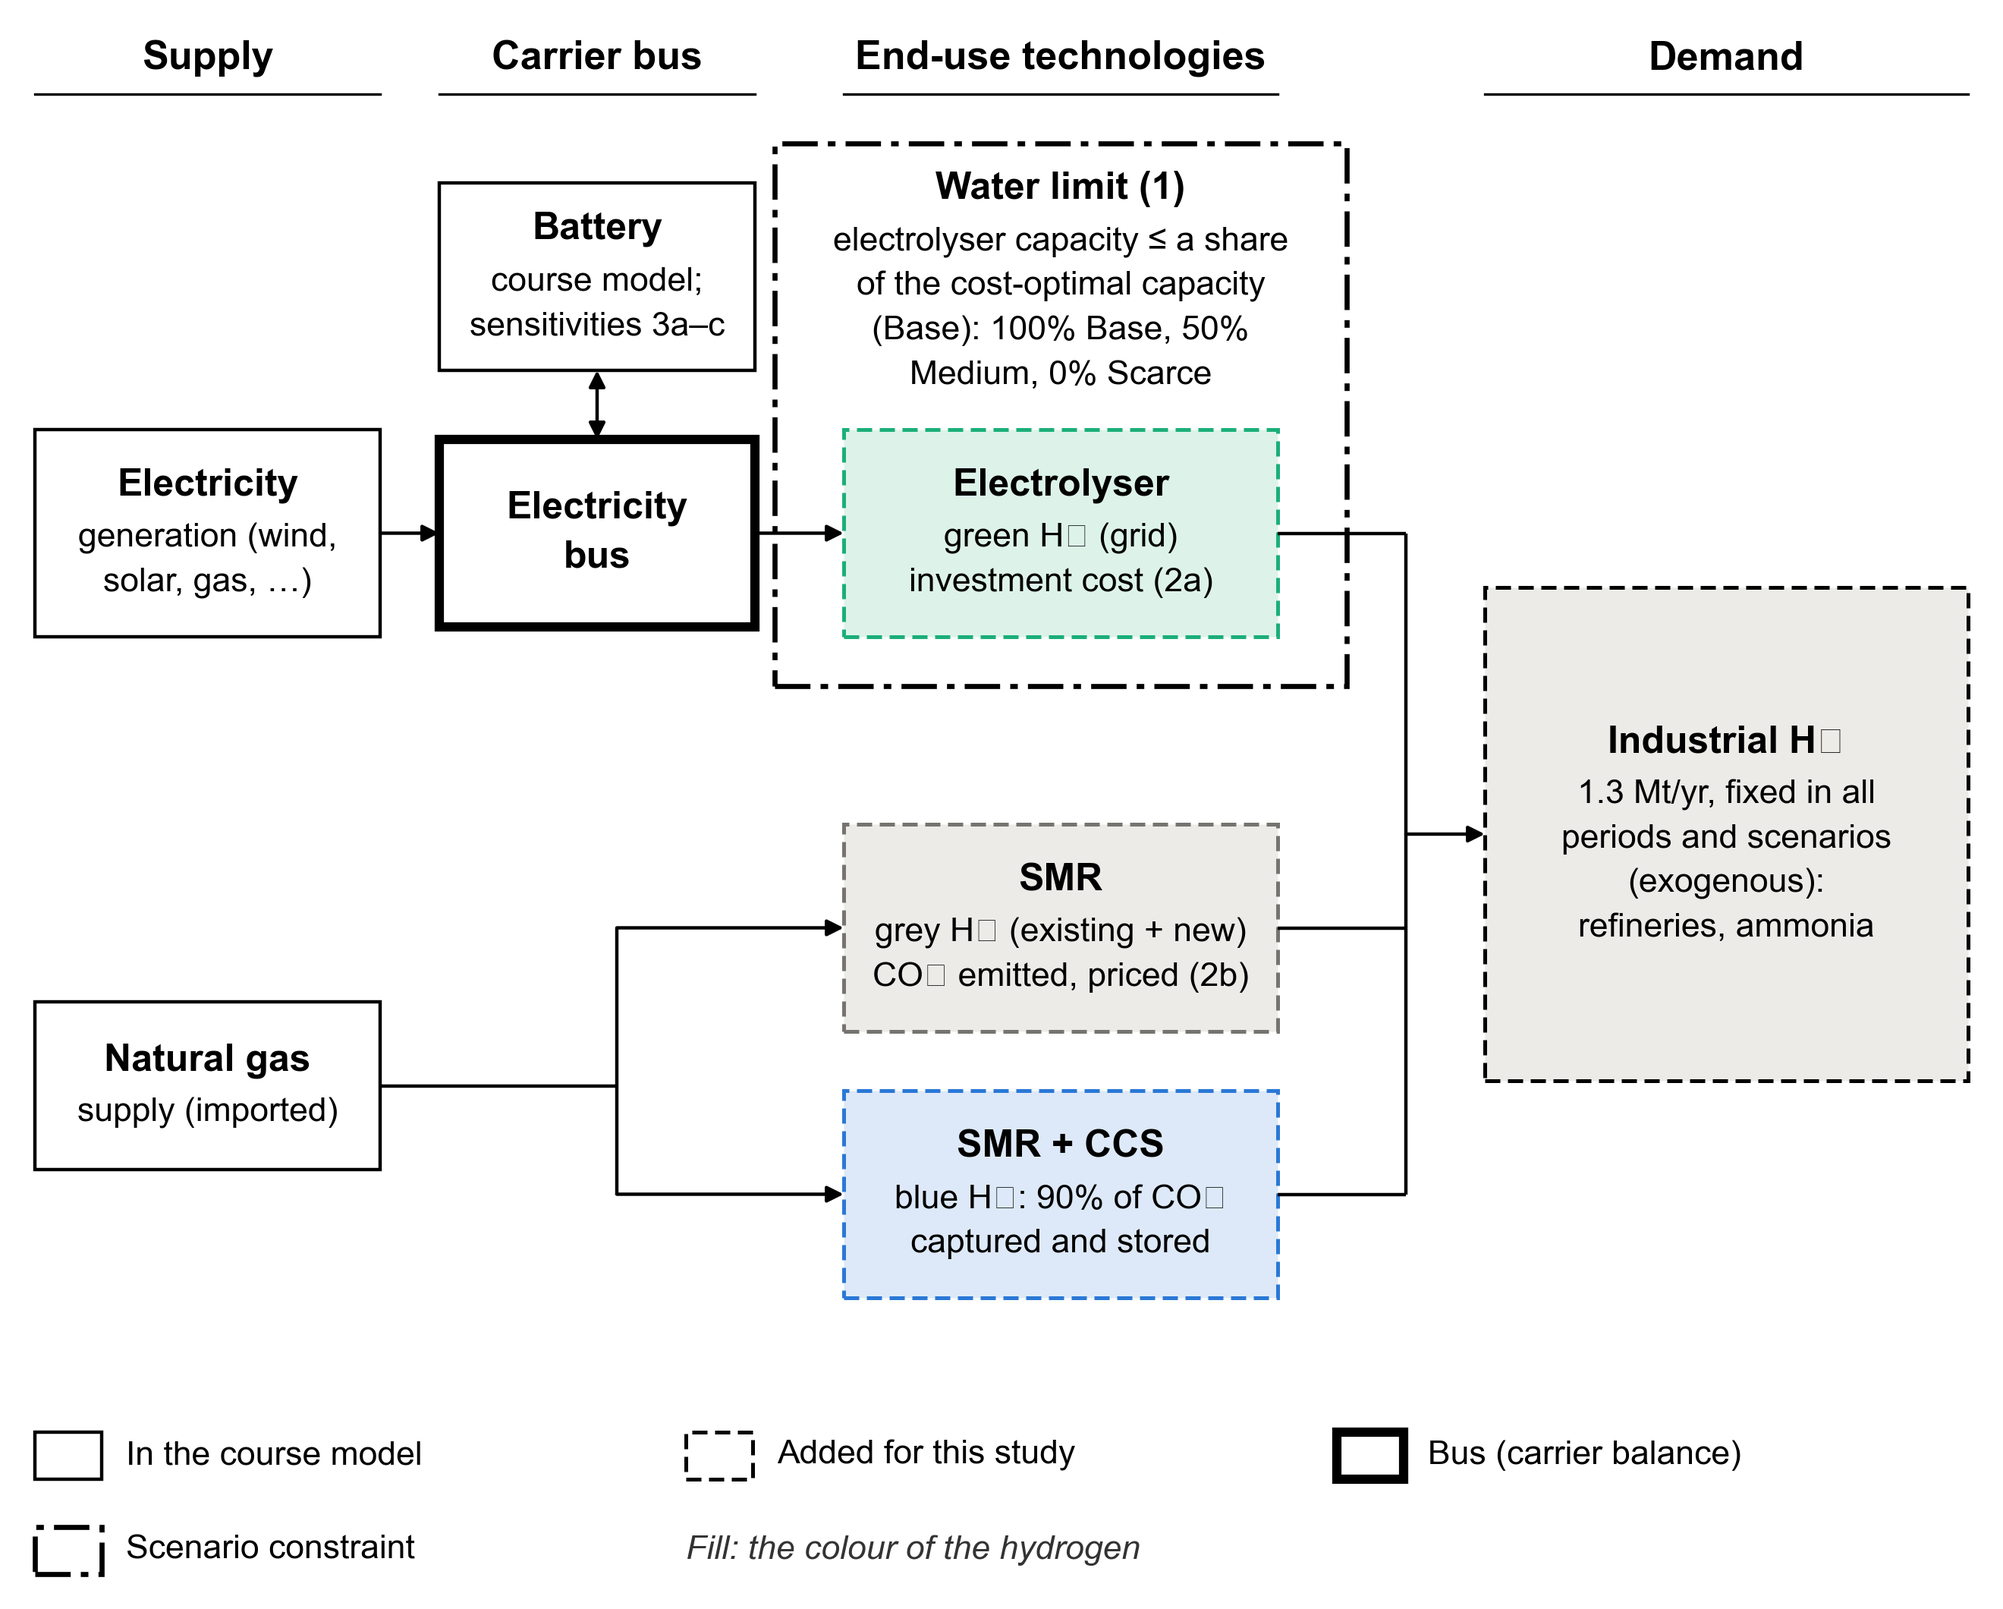
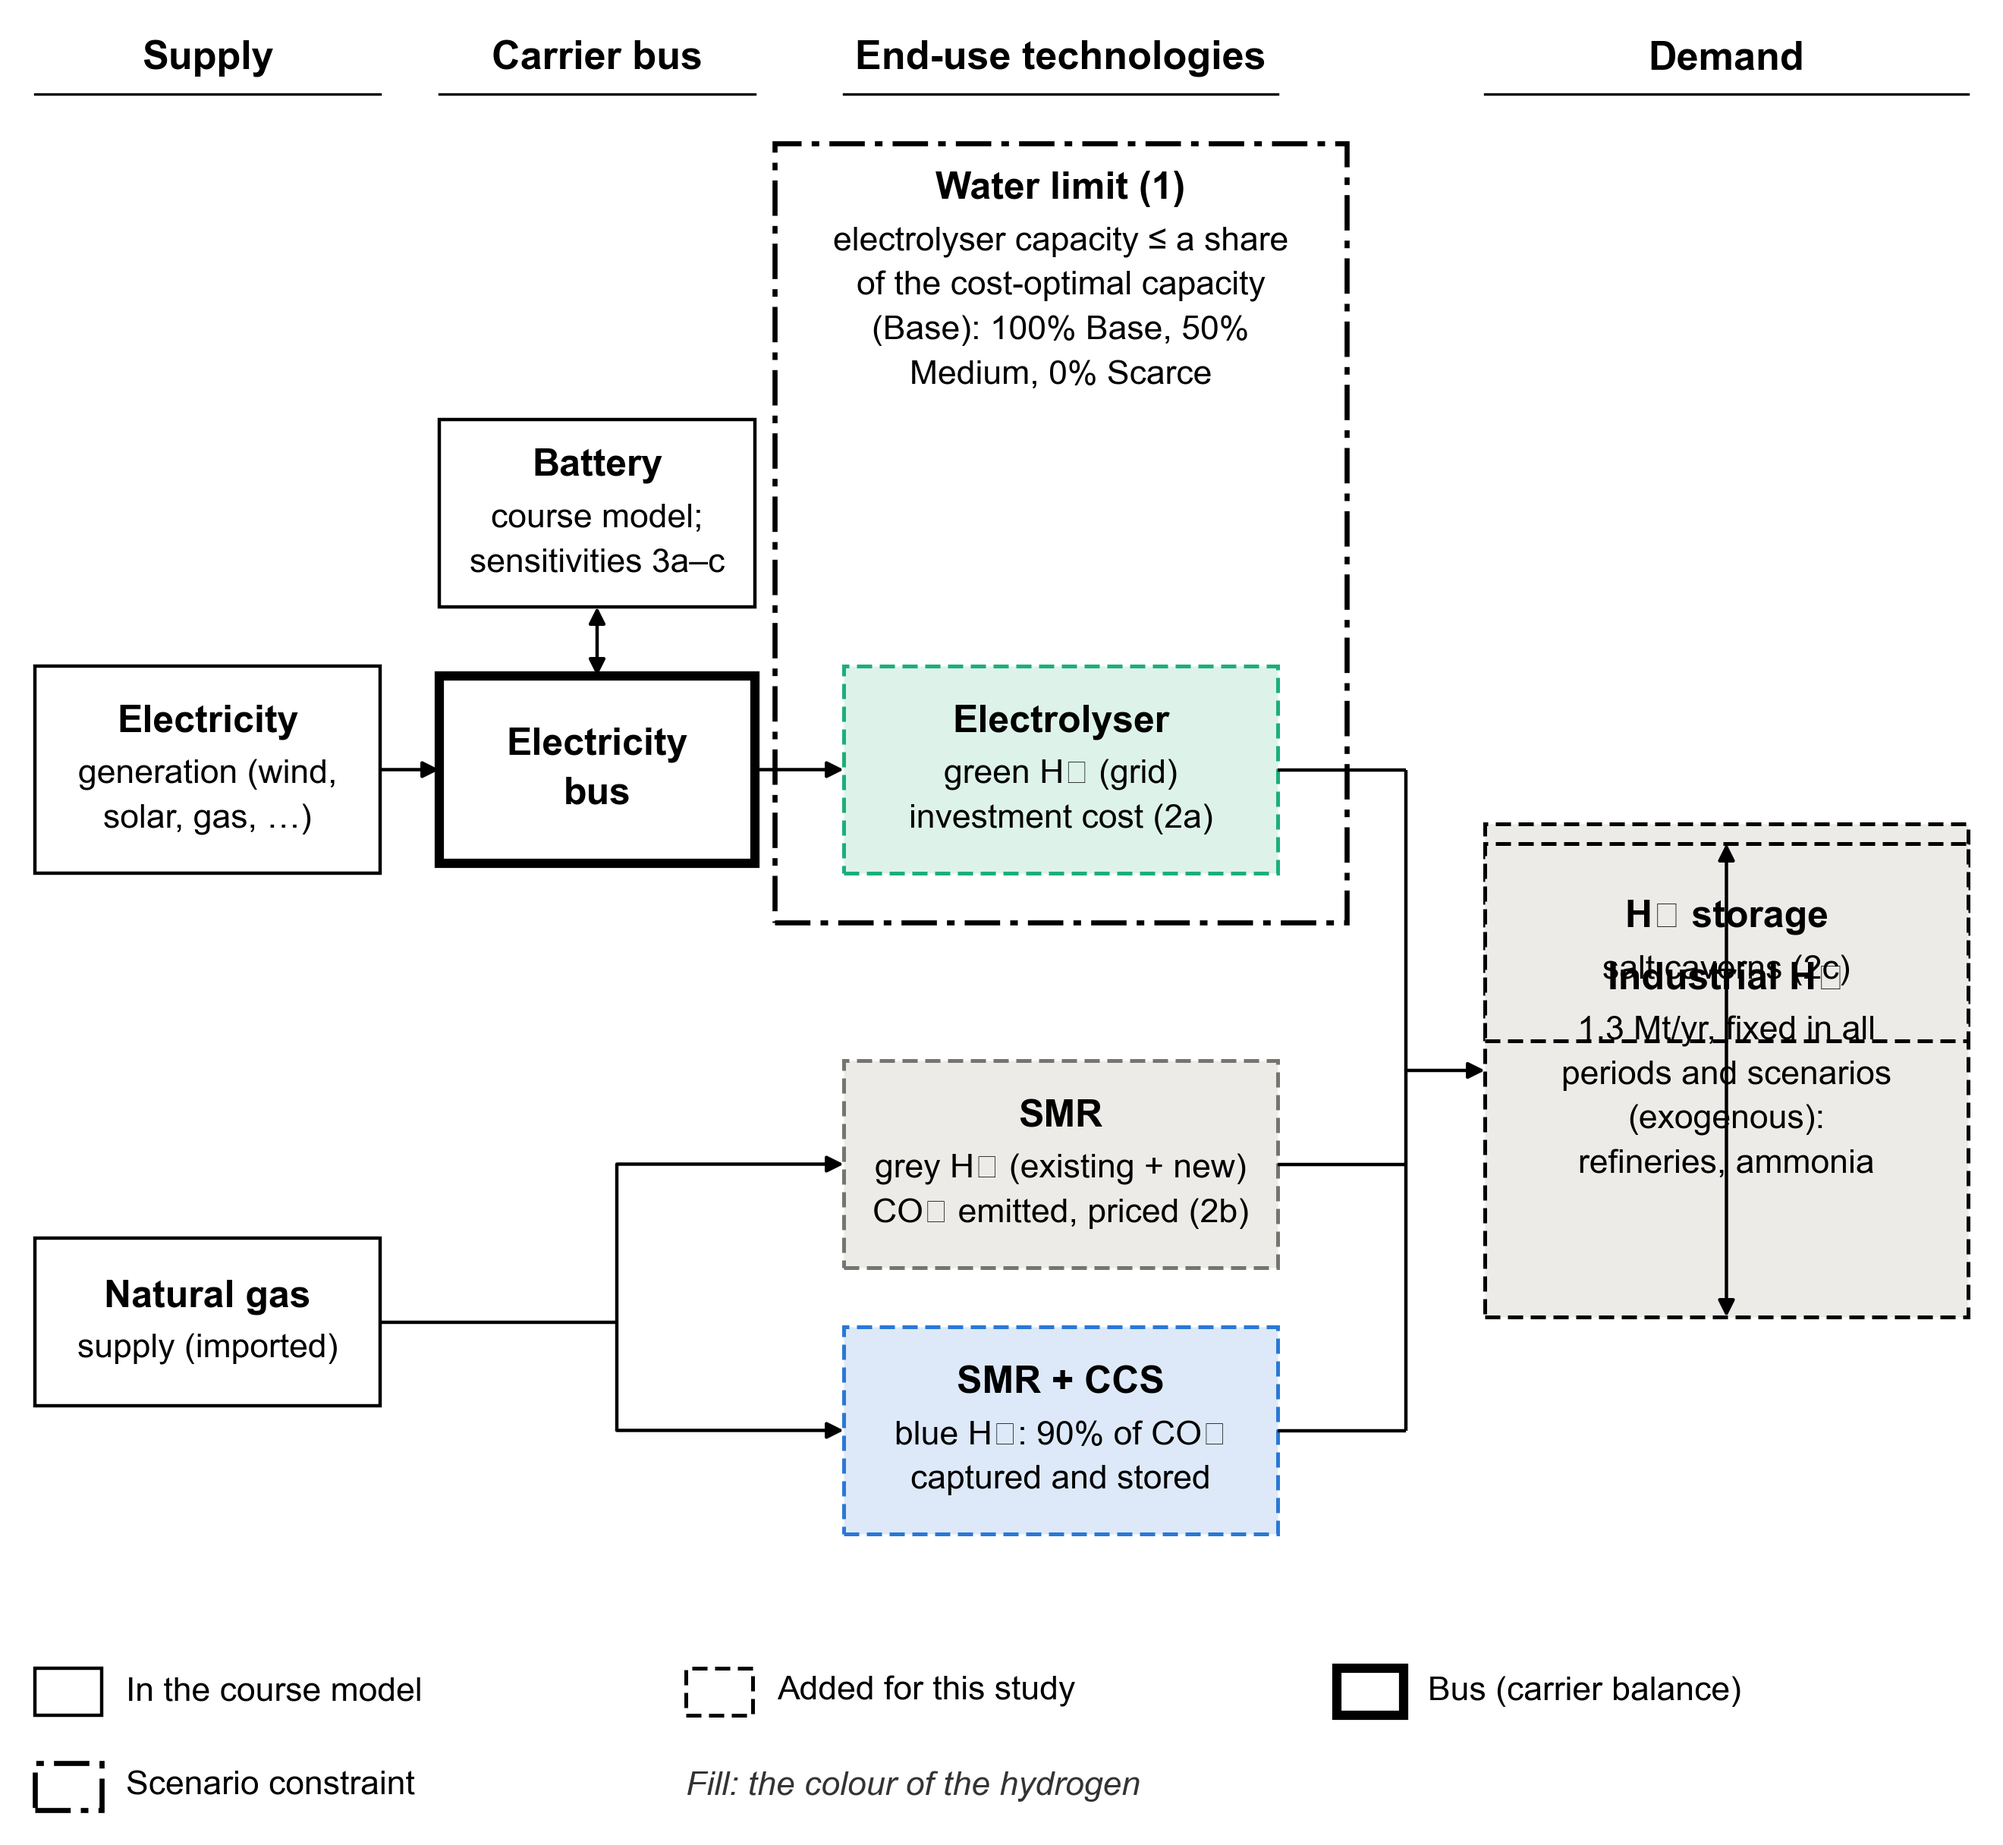
Regenerate storage-aware document figures

diff --git a/FinalModel_H2/figures_document/Figure3_model_structure.py b/FinalModel_H2/figures_document/Figure3_model_structure.py
@@ -32,10 +32,6 @@ def _additions():
 
 ADDITIONS = _additions()
 STORAGE_ENABLED = True
-presets = Path(__file__).resolve().parents[1] / "energy_model" / "h2_presets.py"
-if presets.exists():
-    m = re.search(r"^STORAGE = (True|False)", presets.read_text(encoding="utf-8"))
-    STORAGE_ENABLED = bool(m and m.group(1) == "True")
 COLOUR = "--bw" not in sys.argv
 W = 100
 H = 113 if ADDITIONS else (92 if STORAGE_ENABLED else 80)

diff --git a/FinalModel_H2/figures_document/Figure_model_overview_H2.py b/FinalModel_H2/figures_document/Figure_model_overview_H2.py
@@ -106,10 +106,6 @@ def _additions():
 
 ADDITIONS = _additions()
 STORAGE_ENABLED = True
-presets = Path(__file__).resolve().parents[1] / "energy_model" / "h2_presets.py"
-if presets.exists():
-    m = re.search(r"^STORAGE = (True|False)", presets.read_text(encoding="utf-8"))
-    STORAGE_ENABLED = bool(m and m.group(1) == "True")
 
 
 # ---------------------------------------------------------------- the figure
